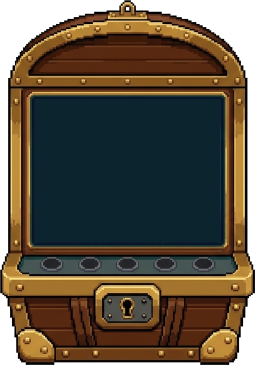
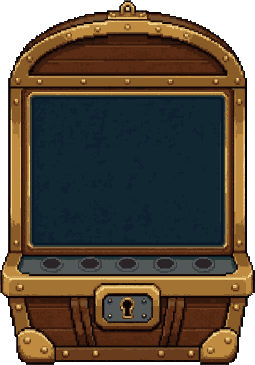
슬롯 본체를 도트 격자에 맞춘 새 그림으로 교체
Claude-Session: https://claude.ai/code/session_01Njqew5D2ny2JTaxi2zG6RN

diff --git a/docs/qa/slot-body-20261124/RECORD.md b/docs/qa/slot-body-20261124/RECORD.md
@@ -1,0 +1,4 @@
+# 슬롯 본체 재제작 (2026-11-24)
+- 1차 image-to-pixelart-pro: 95x143로 줄어 도트가 굵어져 불합격(생성권 20회분).
+- 2차 create-image-pixflux(init_image=기존 본체, 256x368, strength 750, seed 7): 합격. 생성권 1회분.
+- 분홍 배경(#ff00ff) 제거 후 255x365로 잘라 art/pet_hut/slot/body_empty.png 교체. 첫 호출 결과 저장 누락으로 1회분 재호출 포함, 총 22회분.
